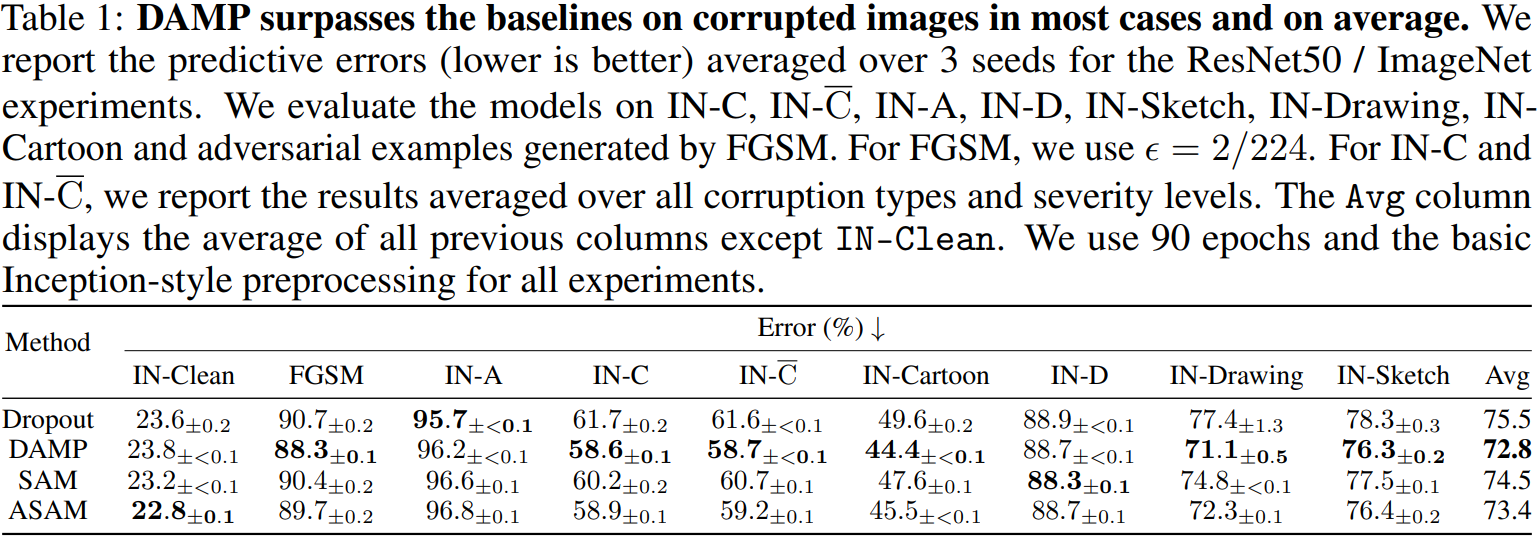
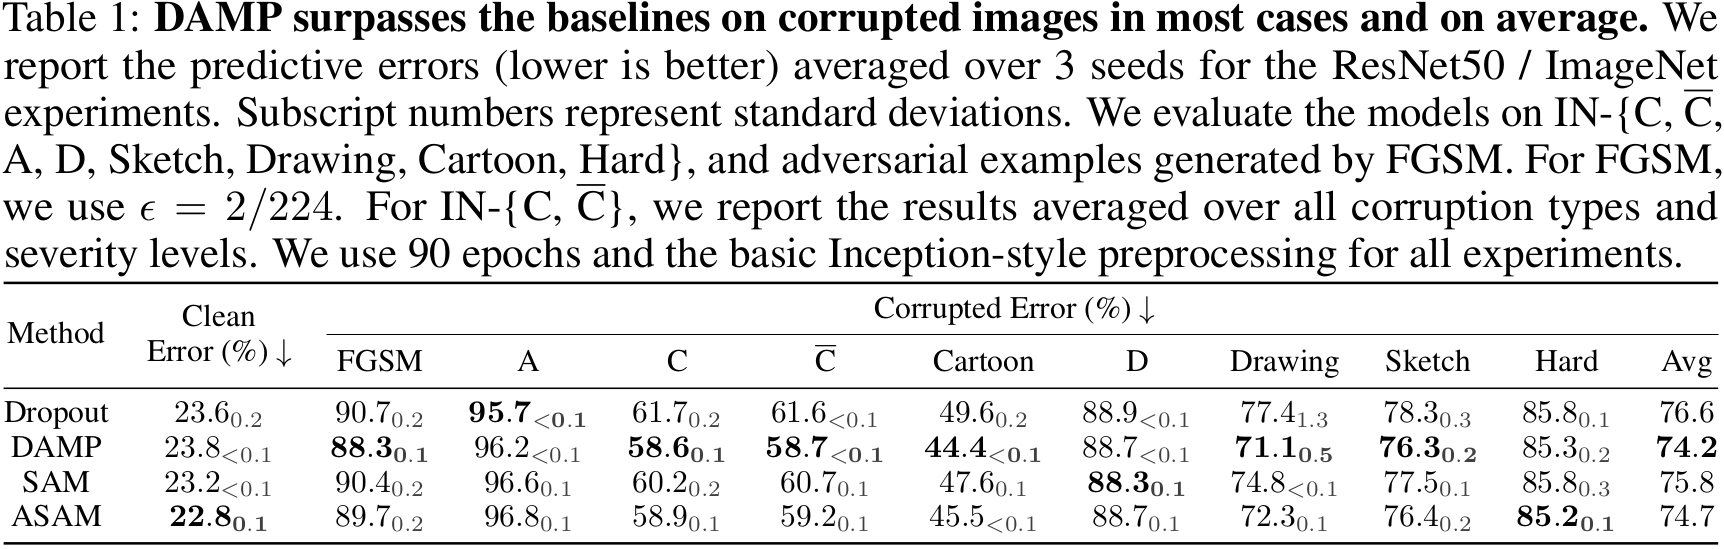
update

Changed region(s): [[0.0, 0.0, 1.0, 1.0]]

diff --git a/index.md b/index.md
@@ -56,7 +56,7 @@ DAMP ins an efficient training method that perturbs weights using multiplicative
 To efficiently estimate the expectation, DAMP splits the training batch evenly into\\(M\\)sub-batches, then samples a weight perturbation for each sub-batch to calculate the sub-batch gradient, and finally averages over all sub-batch gradients to obtain the final gradient. Therefore, DAMP is suitable for data parallelism in multi-GPU training.
 
 # Experiment results on ImageNet
-We perform experiments with ResNet50 [1] and ViT [2] architectures on ImageNet [3], and we choose Dropout [4], SAM [5], and ASAM [6] as baselines. For corrupted versions of ImageNet, we use ImageNet-C [7], ImageNet-\\(\bar{C}\\) [8], ImageNet-D [9], ImageNet-A [10], ImageNet-Sketch [11], ImageNet-Drawing and ImageNet-Cartoon [12], and FGSM [13] for adversarial corruptions.
+We perform experiments with ResNet50 [1] and ViT [2] architectures on ImageNet [3], and we choose Dropout [4], SAM [5], and ASAM [6] as baselines. For corrupted versions of ImageNet, we use ImageNet-C [7], ImageNet-\\(\overline{\text{C}}\\) [8], ImageNet-D [9], ImageNet-A [10], ImageNet-Sketch [11], ImageNet-Drawing and ImageNet-Cartoon [12], and FGSM [13] for adversarial corruptions.
 
 
 <img src="./assets/table1.png" alt="drawing" width="100%" max-width="1000px">
